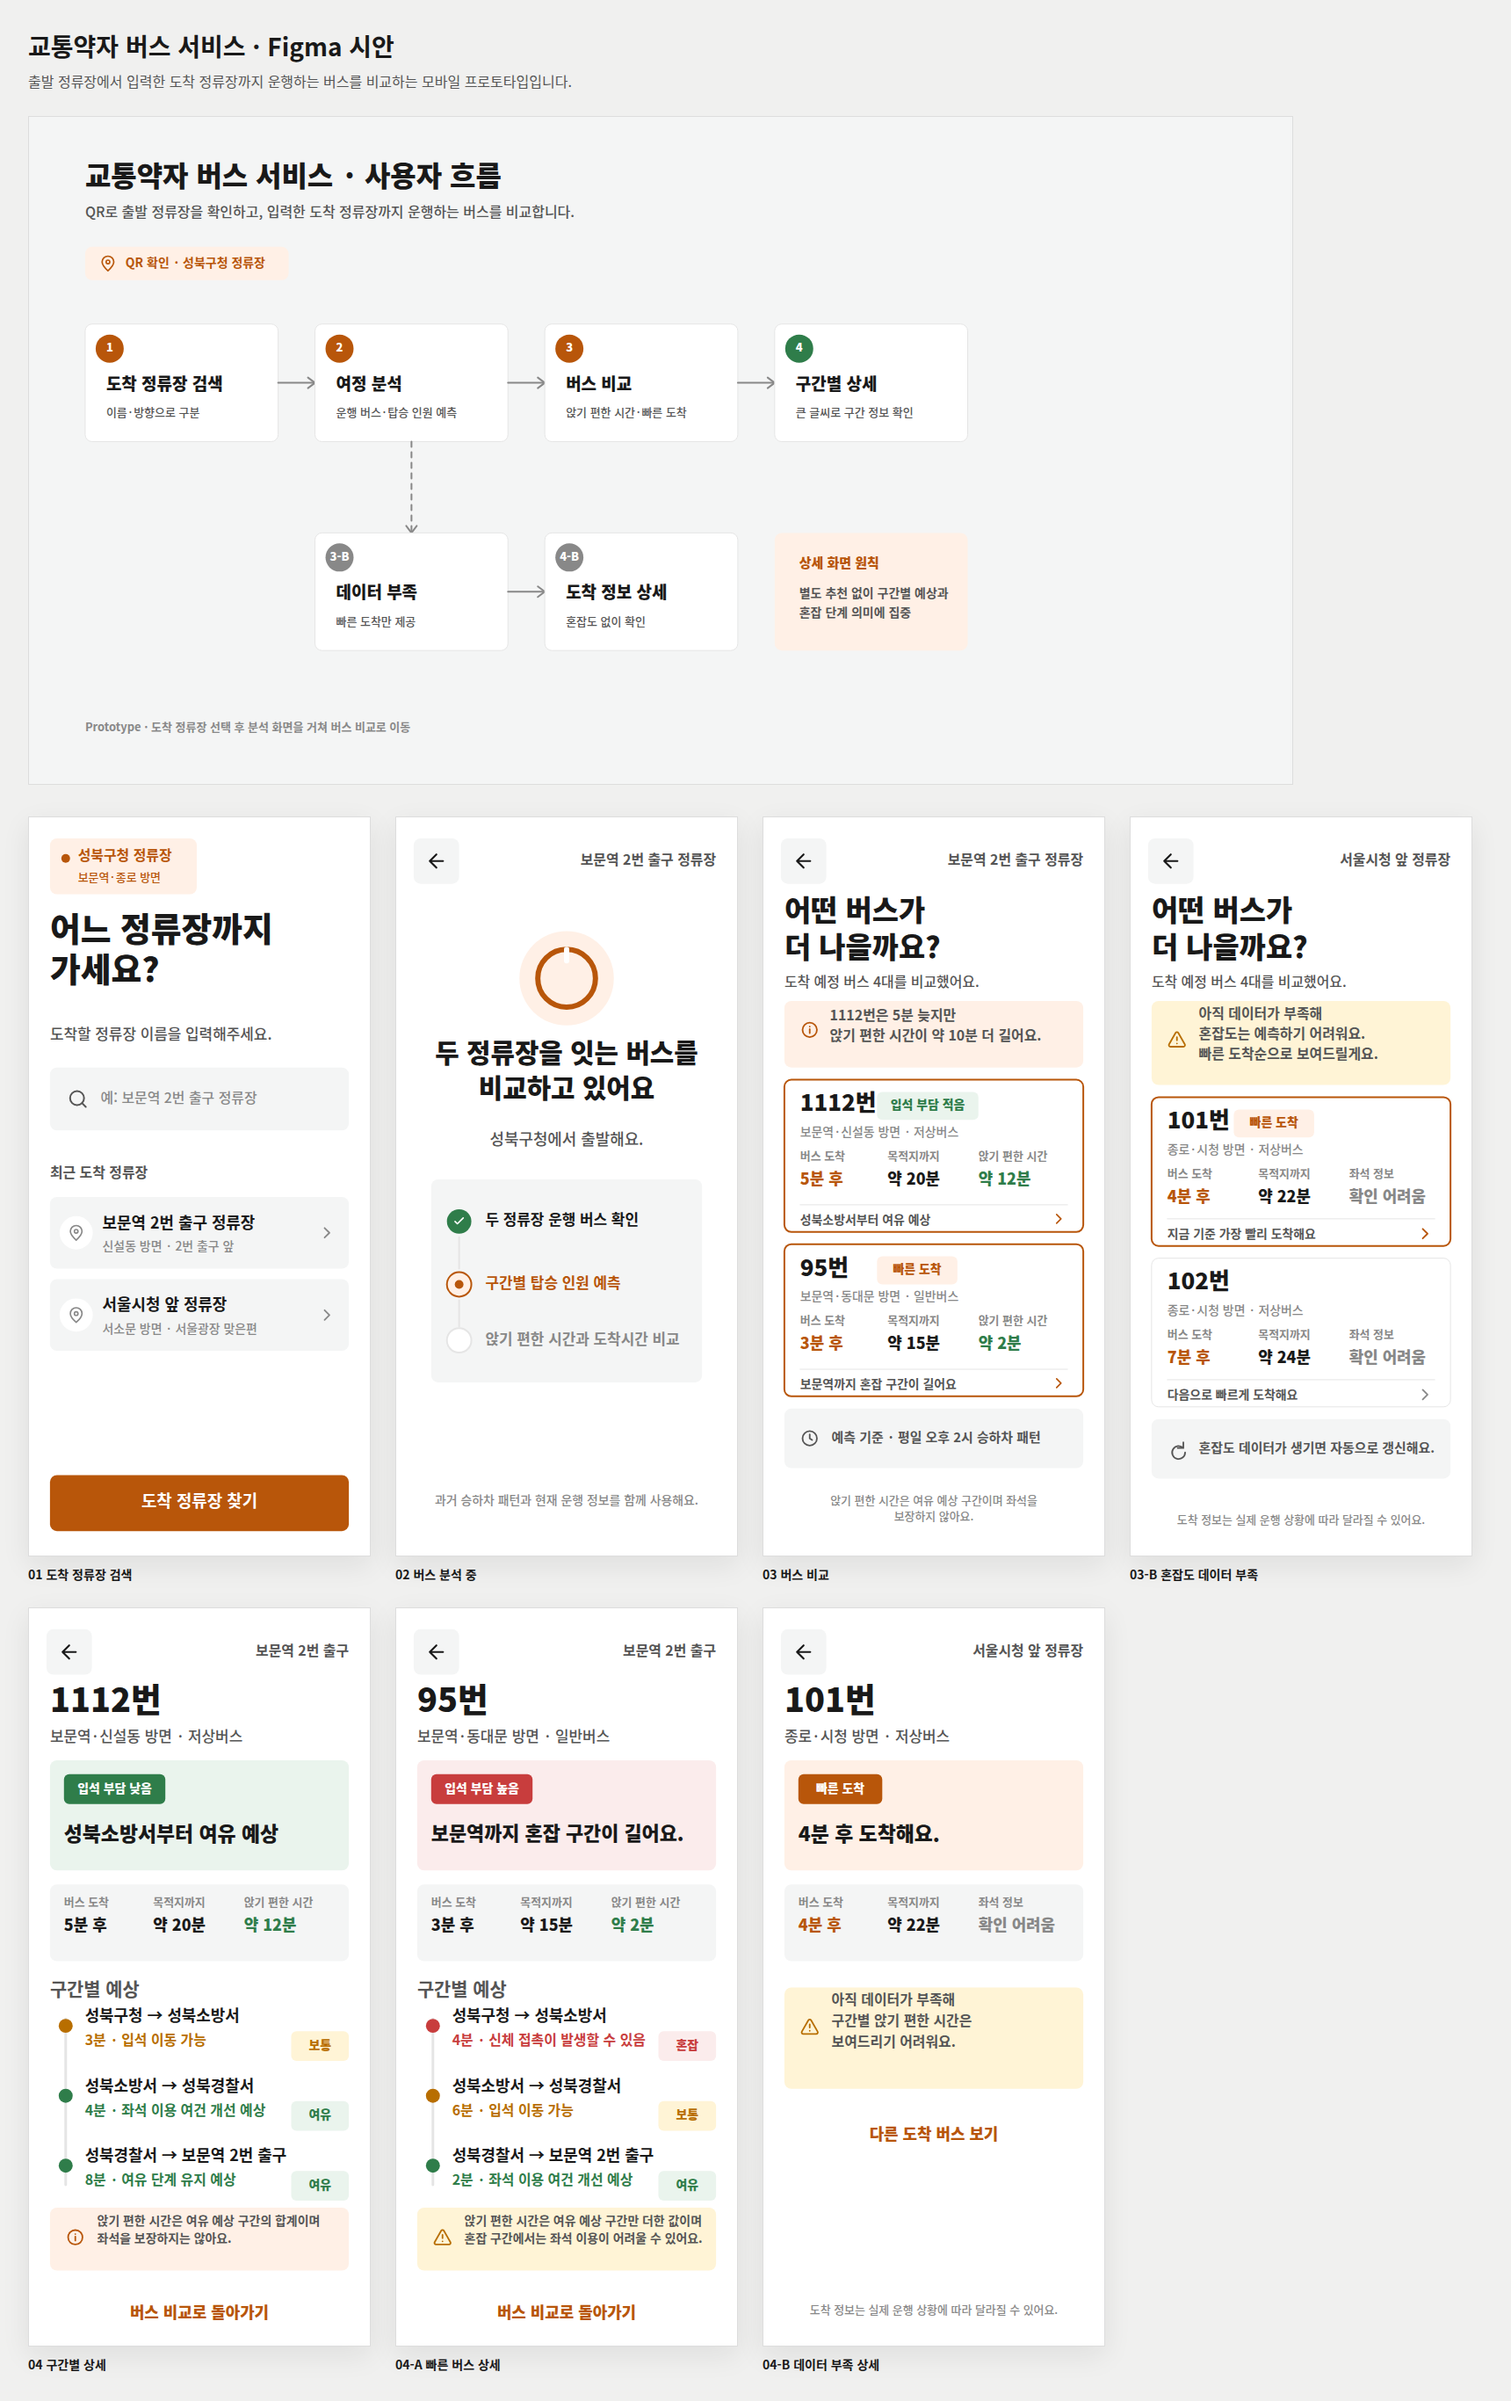
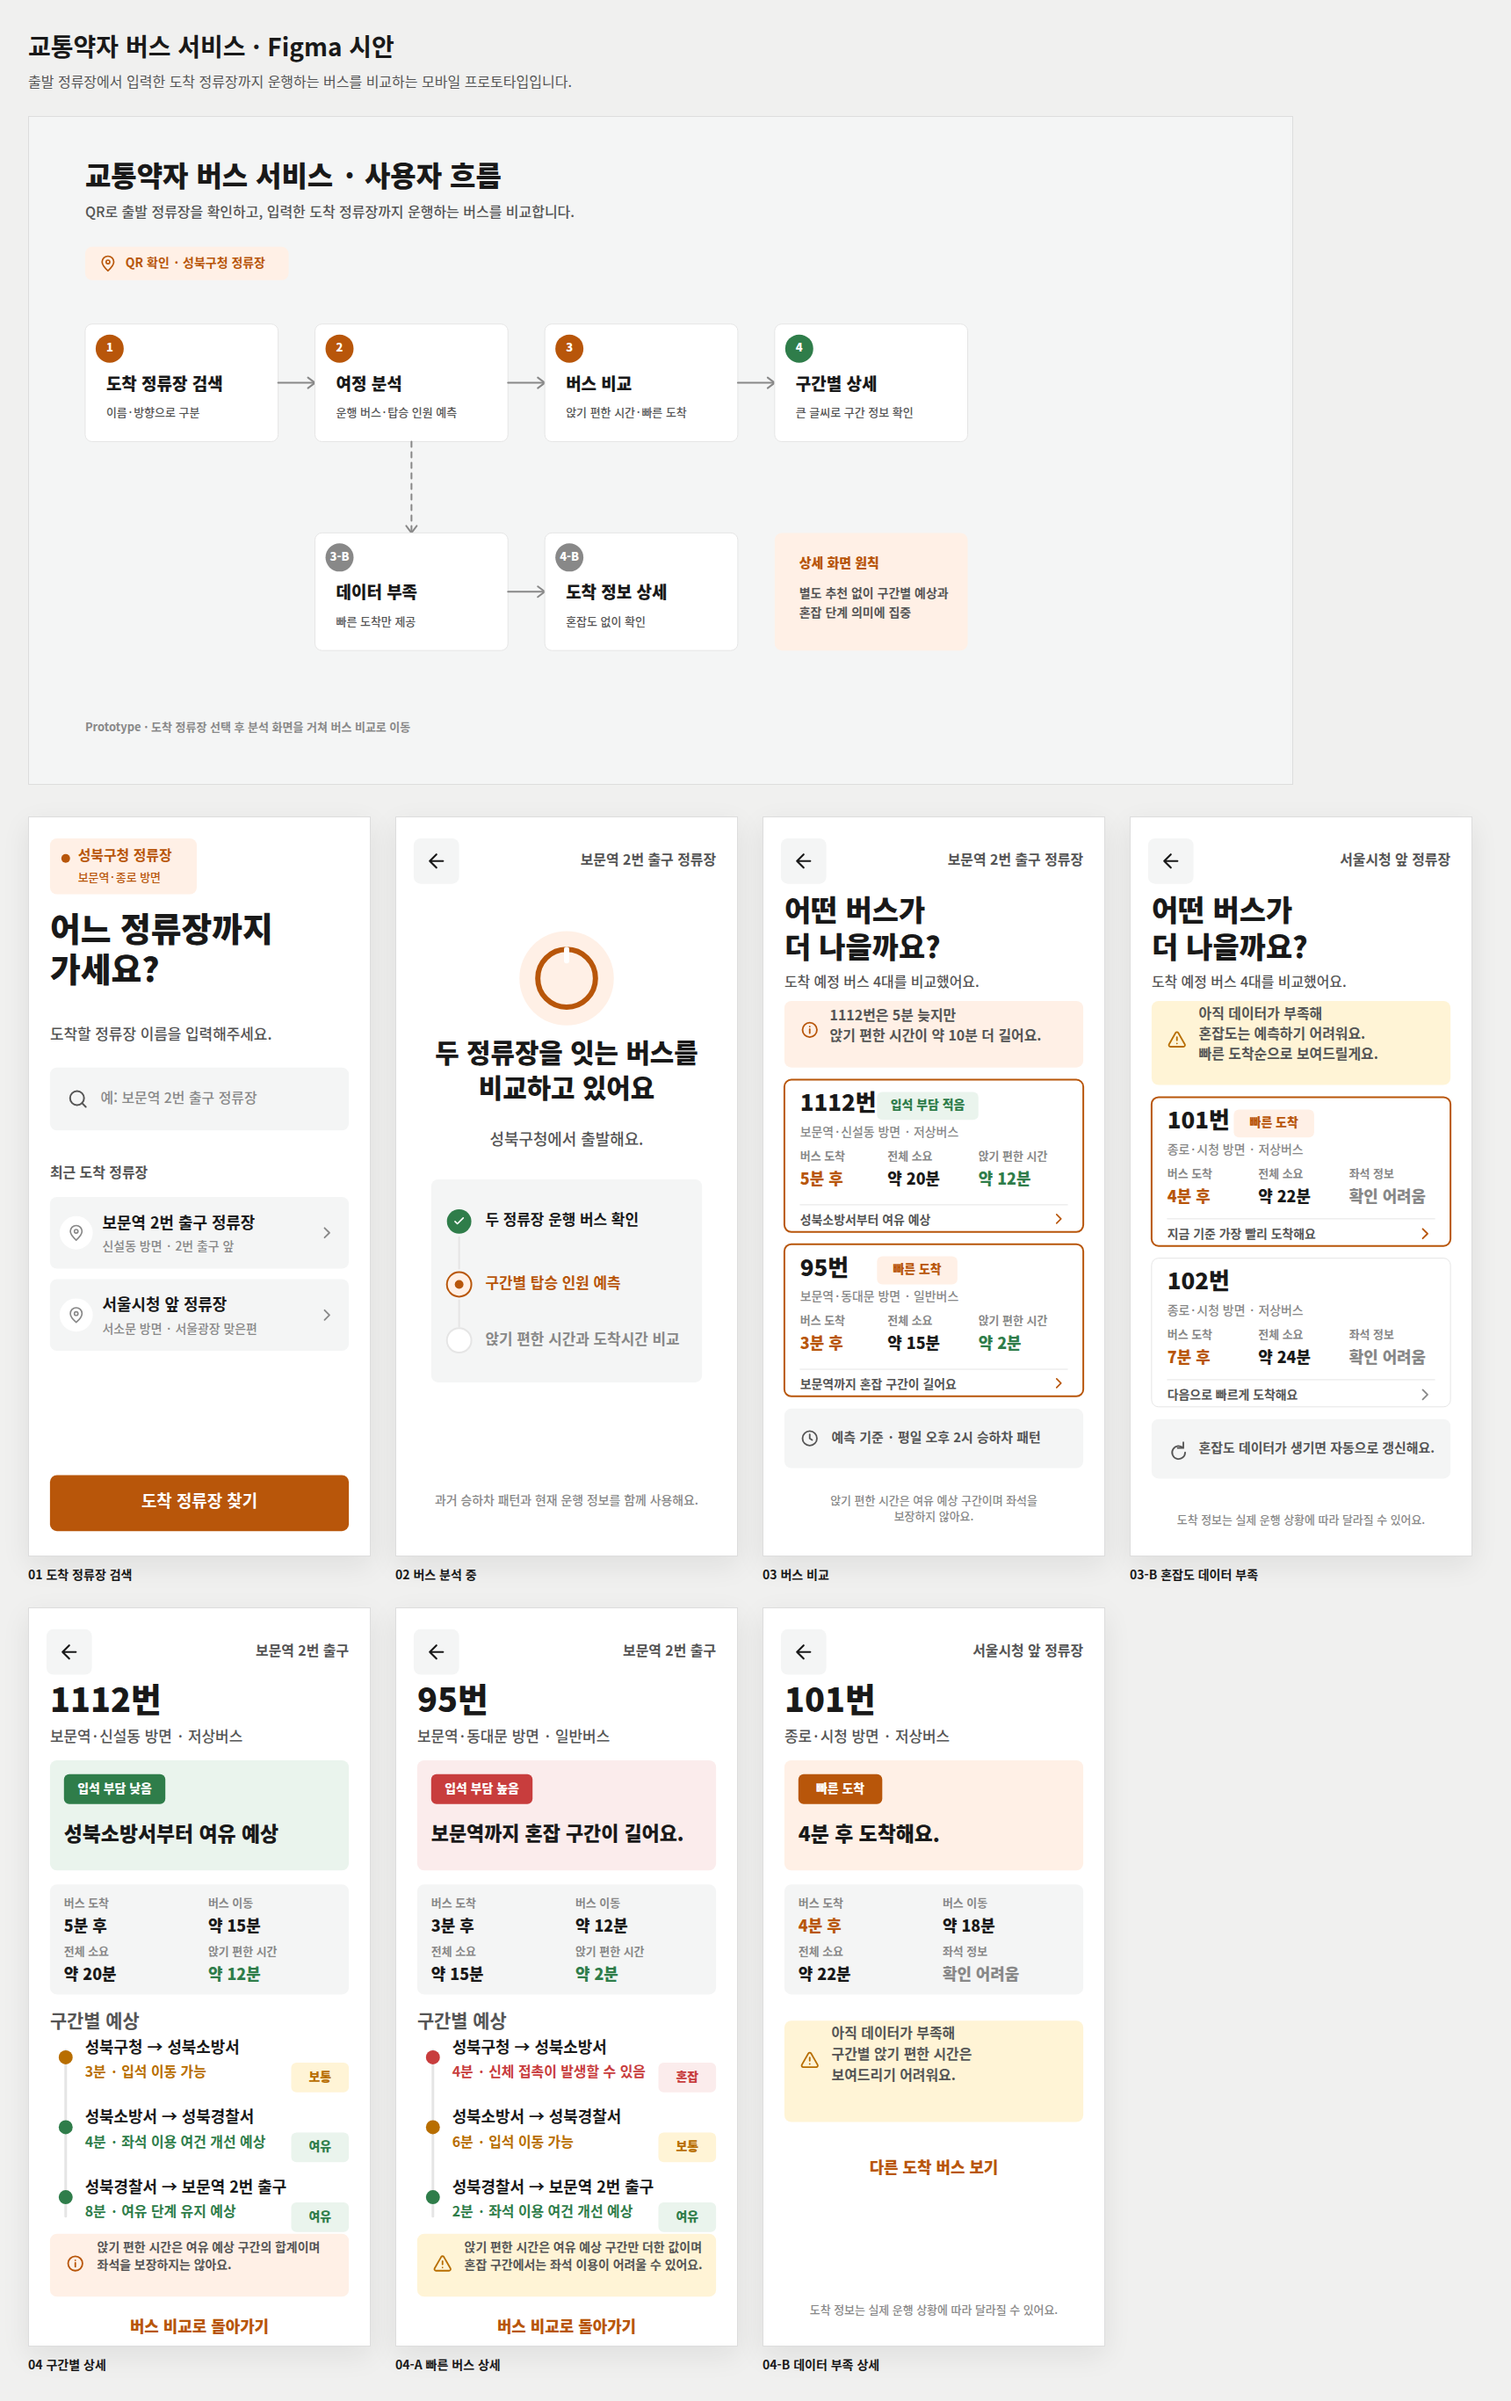
fix: clarify total and in-bus travel times

diff --git a/src/App.jsx b/src/App.jsx
@@ -282,7 +282,7 @@ function BusOption({ route, isComfortBest, isFastest, predictionAvailable, onCli
       <span className="route-meta">{route.direction} · {route.vehicleType}</span>
       <span className="bus-metrics">
         <span><small>버스 도착</small><strong className="metric-primary">{route.arrivalMinutes}분 후</strong></span>
-        <span><small>목적지까지</small><strong>약 {total}분</strong></span>
+        <span><small>전체 소요</small><strong>약 {total}분</strong></span>
         <span>
           <small>{predictionAvailable ? "앉기 편한 시간" : "좌석 정보"}</small>
           <strong className={predictionAvailable ? "comfortable" : ""}>
@@ -385,8 +385,9 @@ function DetailScreen({ destinationStop, route, onBack }) {
 
       <section className="journey-metrics" aria-label="여정 요약">
         <div><small>버스 도착</small><strong>{route.arrivalMinutes}분 후</strong></div>
-        <div><small>목적지까지</small><strong>약 {total}분</strong></div>
-        <div><small>앉기 편한 시간</small><strong className={predictionAvailable ? "comfortable" : ""}>{predictionAvailable ? `약 ${route.seatFriendlyMinutes}분` : "확인 어려움"}</strong></div>
+        <div><small>버스 이동</small><strong>약 {route.travelMinutes}분</strong></div>
+        <div><small>전체 소요</small><strong>약 {total}분</strong></div>
+        <div><small>{predictionAvailable ? "앉기 편한 시간" : "좌석 정보"}</small><strong className={predictionAvailable ? "comfortable" : ""}>{predictionAvailable ? `약 ${route.seatFriendlyMinutes}분` : "확인 어려움"}</strong></div>
       </section>
 
       {predictionAvailable ? (

diff --git a/src/styles.css b/src/styles.css
@@ -746,8 +746,8 @@ input:focus-visible {
   padding: 22px 16px;
   border-radius: 8px;
   display: grid;
-  grid-template-columns: repeat(3, minmax(0, 1fr));
-  gap: 8px;
+  grid-template-columns: repeat(2, minmax(0, 1fr));
+  gap: 20px 16px;
   background: #f2f3f3;
 }
 

diff --git a/README.md b/README.md
@@ -112,6 +112,8 @@ QR로 처음 들어왔을 때 필요한 값입니다.
 
 `standingBurdenMinutes`는 `NORMAL` 이상으로 예상된 구간의 시간을 합친 서버용 비교 값입니다. 화면의 `앉기 편한 시간`은 반대로 `RELAXED` 구간의 `durationMinutes`를 합산해 표시합니다. `여유`는 앉을 가능성이 상대적으로 높은 단계이며 좌석을 보장한다는 뜻은 아닙니다.
 
+`전체 소요`는 버스가 올 때까지의 `arrivalMinutes`와 탑승 후 `travelMinutes`를 더한 값입니다. 구간별 `durationMinutes`의 합계는 `전체 소요`가 아니라 `버스 이동`과 일치해야 합니다. 예를 들어 대기 5분, 이동 15분이면 전체 소요는 20분입니다.
+
 서버는 혼잡도 코드와 수치만 전달하고 한글 문구와 색상은 프론트에서 정합니다. CSS 색상이나 `tone` 같은 화면용 값은 API에 넣지 않습니다.
 
 ## 데이터가 부족할 때

diff --git a/docs/API_CONTRACT_DRAFT.md b/docs/API_CONTRACT_DRAFT.md
@@ -140,6 +140,8 @@ Content-Type: application/json
 
 화면의 `앉기 편한 시간`은 별도 API 필드가 아니라 `congestionLevel`이 `RELAXED`인 구간의 `durationMinutes` 합계로 계산합니다. 좌석을 보장하는 값이 아니므로 화면에도 여유 예상 구간의 합계라는 안내를 함께 표시합니다.
 
+프론트의 `전체 소요`는 `arrivalMinutes + travelMinutes`로 계산합니다. `segments[].durationMinutes`의 합계는 탑승 후 이동시간인 `travelMinutes`와 같아야 하며, 다를 경우 서버 데이터 오류로 봅니다.
+
 상세 화면에서는 다른 버스를 별도로 추천하지 않습니다. 사용자는 구간별 예상과 혼잡 단계 의미를 확인한 뒤 비교 화면으로 돌아가 다른 버스를 직접 선택합니다. 환승이나 다른 정류장까지 걷는 우회 경로도 현재 범위에 포함하지 않습니다.
 
 ## 데이터 부족 응답

diff --git a/design/figma-import/README.md b/design/figma-import/README.md
@@ -55,6 +55,7 @@
 - 검색 결과는 정류장 이름과 함께 운행 방향, 가까운 랜드마크를 표시해 동명 정류장을 구분합니다.
 - 비교 기준을 고르는 토글 없이 각 카드에 `입석 부담 적음` 또는 `빠른 도착` 표시를 직접 붙입니다.
 - `빠른 도착`은 버스가 올 때까지의 시간과 승차 후 이동시간을 합쳐 비교합니다.
+- `전체 소요`와 `버스 이동`을 분리해, 구간별 시간의 합계가 버스 이동시간과 바로 맞아야 합니다.
 - `입석 부담 적음` 표시는 이동 중 입석 부담이 예상되는 시간이 짧은 버스에 붙입니다.
 - 분석 과정에는 `재차인원` 대신 `탑승 인원`을 사용합니다.
 - 결과는 `앉기 편한 시간`과 `여유·보통·혼잡` 단계를 함께 보여줍니다.
